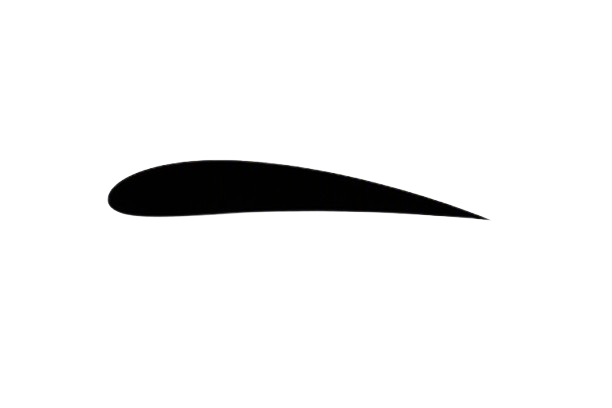
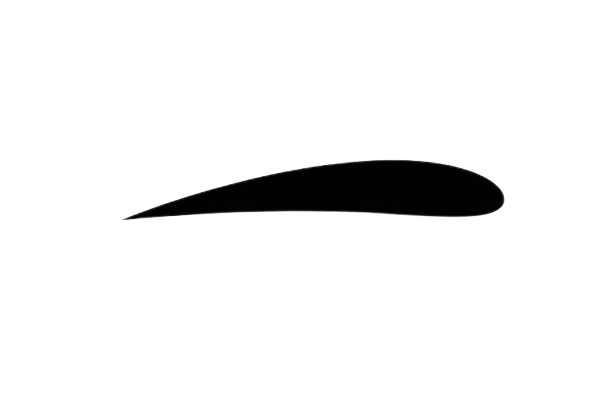
body_index can be changed correctly

Changed region(s): [[0.1552, 0.3824, 0.8382, 0.5588]]

diff --git a/interface.py b/interface.py
@@ -139,8 +139,6 @@ class Entry(Label, Input):
             if typing(event):
                 self._typeText(event)
 
-    def getState(self):
-        return self._in_use
 
     def getVariable(self):
         """Returns associated variable"""
@@ -298,10 +296,9 @@ class Image_Boolean_Button(Input):
         self.__shape = pygame.transform.scale_by(pygame.image.load(image_path).convert_alpha(), scale_factor)
         self.__clickable_rect = self.__shape.get_bounding_rect()
         self.__rect = self.__shape.get_rect()
-        self.__rect.center = self.__clickable_rect.center =(x,y)
+        self.__rect.center = self.__clickable_rect.center = (x,y)
         
-        
-        
+    
         try:
             self.__key_bind = pygame.key.key_code(key_bind)
         except TypeError:
@@ -311,7 +308,6 @@ class Image_Boolean_Button(Input):
     def place(self):
         """Blits the image of the button"""
         self.__window.blit(self.__shape, self.__rect)
-        
         
     
     def checkInteract(self, event : pygame.event.Event, keys : List[bool] = None):
@@ -408,29 +404,29 @@ class BodySelectionButton(Input):
     def __init__(self, window, x : int, y : int, index : int, image_scale_factor : Tuple[int, int]):
         """Creates bespoke button to be placed on screen"""
         self.__window = window
-
         self.__index = index
-        properties = getBodyProperties(index)
-        self.__value = 0
 
+        properties = getBodyProperties(index)[0:2]
+        
+        self.__click_flag = False
 
         self.__name = properties[0][0].upper() + properties[0][1:]
         self.__path = properties[1]
       
         self.__rect = pygame.rect.Rect(0,0, 150, 100)
-          
+        self.__rect.center = (x,y)  
+        
         self.__image = pygame.transform.scale_by(pygame.image.load(self.__path).convert_alpha(), image_scale_factor)
         self.__image_rect = self.__image.get_rect()
-        self.__image_rect.center = self.__rect.center = (x,y)
+        self.__image_rect.center = (x,y)
 
         self.__font = pygame.font.SysFont("consolas", 20)
         self.__text_rect = self.__font.render(self.__name, True, "#000000", "#FFFFFF").get_rect()
     
-
         self.__text_box_rect = self.__text_rect.copy()
         self.__text_box_rect.width = 150
         self.__text_box_rect.height = 30
-        self.__text_box_rect.center = self.__text_rect.center = (x, y+75)
+        self.__text_box_rect.center = self.__text_rect.center = (x, y + 75)
        
 
     def place(self):
@@ -444,18 +440,18 @@ class BodySelectionButton(Input):
     def checkInteract(self, event : pygame.event.Event):
         if tapping(event):
             if self.__rect.collidepoint(*pygame.mouse.get_pos()[:2]):
-                self.__value = self.__index
+                self.__click_flag = True
+                
+    def getClickFlag(self):
+        return self.__click_flag
 
     def getVariable(self):
         return self.__variable
     
     def getValue(self):
-        value = self.__value
-        self.__value = 0
-        return value
-
-
-
+        self.__click_flag = False
+    
+        return self.__index
         
 
       

diff --git a/main.py b/main.py
@@ -4,7 +4,7 @@ import interface as ui
 import fluid
 import numpy as np
 
-
+###################################Flip look of airfoil
 
 # JIT Compiles subroutines to be used later on
 translate(rotate(np.array([(1.0, 0), (1.0, 1.0),(1.0, -1.0)]),np.pi), 0, 0)
@@ -103,23 +103,22 @@ control_interactable = (speed_entry, show_grid_doublecheckbox, field_rows_increm
 
 # Instantiates body selection components:
 back_from_body_button = ui.Image_Boolean_Button(screen, SCREEN_WIDTH-320, 30, "show_control", "images\\ui\\back_from_body.png", (0.2, 0.2))
-clear_body_button = ui.Image_Boolean_Button(screen, SCREEN_WIDTH-100, 40, "clear_body","images\\ui\\clear_body.png", (0.6, 0.6) )
+clear_body_button = ui.Image_Boolean_Button(screen, SCREEN_WIDTH-100, 40, "clear_body","images\\ui\\clear_body.png", (0.6, 0.6))
 
 body_select_1 = ui.BodySelectionButton(screen, SCREEN_WIDTH-250, 150, 1, (0.2, 0.2))
-body_select_2 = ui.BodySelectionButton(screen, SCREEN_WIDTH-95, 150, 2, (0.3, 0.3) )
+body_select_2 = ui.BodySelectionButton(screen, SCREEN_WIDTH-95, 150, 2, (0.3, 0.3))
 body_select_3 = ui.BodySelectionButton(screen, SCREEN_WIDTH-250, 300, 3, (0.3, 0.3))
-#body_select_4 = ui.BodySelectionButton(screen, SCREEN_WIDTH-95, 300, 4, (0.2, 0.2))
+body_select_4 = ui.BodySelectionButton(screen, SCREEN_WIDTH-95, 300, 4, (0.2, 0.2))
 
-
-body_objects = (back_from_body_button, body_select_1, body_select_2, body_select_3, clear_body_button)
-body_interactable = (back_from_body_button, body_select_1, body_select_2, body_select_3, clear_body_button)
-
+body_objects = (back_from_body_button, body_select_1, body_select_2, body_select_3, body_select_4, clear_body_button)
+body_interactable = (back_from_body_button, body_select_1, body_select_2, body_select_3, body_select_4, clear_body_button)
 
 
 
 # Instantiates tank components
 flow_button = ui.Dual_Image_Boolean_Button(screen, 22, 30, "flow", "images\\ui\\play_image.png", "images\\ui\\pause_image.png", (0.2, 0.2), (0.2, 0.2), "space")
 vector_field = fluid.VectorField(screen, data["field_rows"], data["speed"], data["flow"], data["show_field"])
+body = fluid.Body()
 
 tank_objects = [vector_field, flow_button]
 tank_interactable = [vector_field, flow_button]     
@@ -161,8 +160,12 @@ while running:
             for obj in body_interactable:
                 obj.checkInteract(event)
                 if tapping(event):
-                    data[obj.getVariable()] = obj.getValue()  
-
+                    if isinstance(obj, ui.BodySelectionButton):
+                        if obj.getClickFlag():
+                            data[obj.getVariable()] = obj.getValue()
+                            print("Yes")
+                    else:
+                        data[obj.getVariable()] = obj.getValue()
 
         if data["show_control"]:
             for obj in control_interactable:
@@ -246,5 +249,4 @@ while running:
 
     print(data)
 
-    
 pygame.quit()

diff --git a/algorithms.py b/algorithms.py
@@ -49,7 +49,7 @@ def rotate(point : np.array, radians : float):
 @nb.njit
 def translate(point: np.array, pygame_x : int, pygame_y : int):
     """Translates np.array group of coordinates"""
-    
+    point = np.copy(point)
     for dot in range(point.shape[0]):
         point[dot][0] += pygame_x
         point[dot][1] += pygame_y
@@ -153,7 +153,7 @@ def saveVelocityFunction(function : str):
 
 
 def initialiseBodyTable():
-    """Creates table in fluids database to store body names, their properties and asscociated image paths"""
+    """Creates table in fluids database to store body names, their properties and associated image paths"""
     with sqlite.Connection("fluids.db") as conn:
         conn.cursor().executescript("""CREATE TABLE IF NOT EXISTS body
         (num INTEGER PRIMARY KEY AUTOINCREMENT,
@@ -169,6 +169,7 @@ def initialiseBodyTable():
         conn.commit()
 
 def getBodyProperties(index : int):
+    """Returns the properties of an object of a given index"""
     with sqlite.Connection("fluids.db") as conn:
         return conn.cursor().execute("""SELECT * FROM body WHERE num = ?""", (index,)).fetchone()[1:]
 
